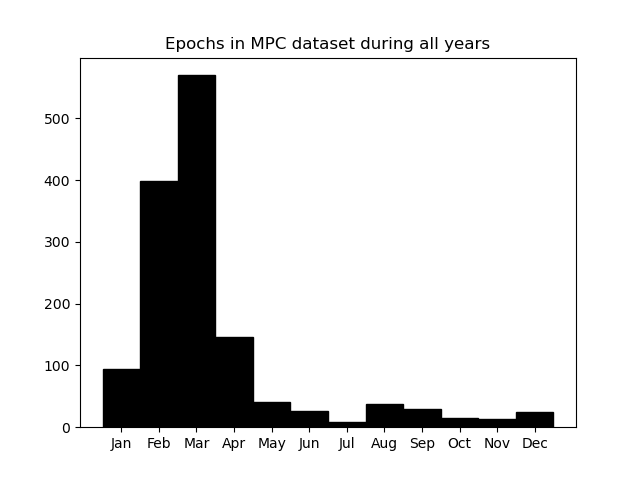
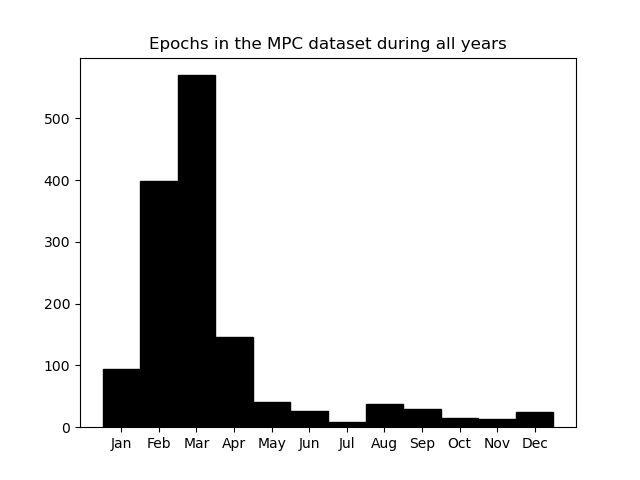
Added command line functionality and improved visualizer module.

Changed region(s): [[0.2188, 0.0625, 0.7812, 0.125]]

diff --git a/visualizer_functions.py b/visualizer_functions.py
@@ -1,0 +1,145 @@
+from mpc_wise_functions import *
+import matplotlib.pyplot as plt
+import numpy as np
+import pandas as pd
+import datetime
+import os
+
+
+def month_plot(dates, title, title_year):
+    """
+    Produces a histogram of recorded epochs during a given year
+    across different months.
+    Arguments: dates (list) -- a list of utc format strings 
+               title (str) -- the name of the dataset
+               title_year (str) -- the year being plotted for. If
+               a cumulative graph is made, provide the string:
+               "all years"
+    Returns: a histogram in the output folder
+    """
+
+    trimmed_dates = []
+    for date in dates:
+        year, month, day = date[:4], date[5:7], date[8:10]
+        date_string = year + month + day
+        trimmed_dates.append(date_string)
+
+    dtm = lambda x: int(x[4:6])
+    months = list(map(dtm, trimmed_dates))
+
+    fig, ax = plt.subplots()
+    bins = np.arange(1,14)
+    ax.hist(months, bins = bins, edgecolor="k", align='left', color='black')
+    ax.set_xticks(bins[:-1])
+    ax.set_title(title)
+    ax.set_xticklabels([datetime.date(1900,i,1).strftime('%b') for i in bins[:-1]])
+    if title == "Unique":
+        plt.title(f"New epochs found during {title_year}")
+    plt.title(f"Epochs in the {title} dataset during {title_year}")
+    if title_year == "all years":
+        title_year = "Cumulative"
+    plt.savefig(f"output/{title}_{title_year}")
+    plt.close()
+
+
+def visualizer(mpc_file, wise_file, clear_dir):
+    """
+    Generates a series of histograms of monthly epochs across the various 
+    years spanned by the MPC and WISE datasets of a given object.
+    Arguments: mpc_file (str) -- the name of the MPC txt file
+               wise_file (str) -- the name of the WISE tbl file
+               clear_dir (bool) -- whether or not to clear the output folder
+    Returns: a series of histograms in the output folder. Will also run
+            the full pring out of the comparer function in 
+            mpc_wise_functions.py
+    """
+
+    unique_epochs = comparer(mpc_file, wise_file, True)
+
+    mpc_data = list(MPC_parser(mpc_file).keys())
+    wise_data = list(WISE_parser(wise_file).keys())
+    unique_data = list(unique_epochs.keys())
+
+    if clear_dir:
+        files = os.listdir("output")
+        for f in files:
+            os.remove("output/" + f)
+
+    #Trimmed month list for MPC Data
+    trimmed_month_mpc = []
+    trimmed_year_mpc = []
+
+    for i in mpc_data:
+        trimmed_month_mpc.append(i[5:7])
+    for i in mpc_data:
+        trimmed_year_mpc.append(i[:4])
+
+    #Trimmed month list for WISE Data
+    trimmed_month_wise = []
+    trimmed_year_wise = []
+
+    for i in wise_data:
+        trimmed_month_wise.append(i[5:7])
+    for i in wise_data:
+        trimmed_year_wise.append(i[:4])
+
+    #Counting observations in each month for MPC
+    mpc_count = dict(pd.Series(trimmed_month_mpc).value_counts())
+    months = {"01": "Jan", "02": "Feb", "03": "Mar", "04": "Apr", "05": "May", 
+            "06": "Jun", "07": "Jul", "08": "Aug", "09": "Sep", "10": "Oct", 
+            "11": "Nov", "12": "Dec"}
+    print("MPC epoch counts by month:")
+    for month in months:
+        if month not in mpc_count.keys():
+            mpc_count[month] = 0
+        print(months[month] + ":", mpc_count[month])
+    print("Total MPC epochs:", sum(mpc_count.values()))
+
+    #Counting observations in each month for WISE
+    wise_count = dict(pd.Series(trimmed_month_wise).value_counts())
+    print("WISE epoch counts by month:")
+    for month in months:
+        if month not in wise_count.keys():
+            wise_count[month] = 0
+        print(months[month] + ":", wise_count[month])
+    print("Total WISE epochs:", sum(wise_count.values()))
+
+    # MPC month plots by year per month
+    mpc_year_data = {}
+    for datum in mpc_data:
+        year, month, day = datum[:4], datum[5:7], datum[8:10]
+        if year not in mpc_year_data.keys():
+            mpc_year_data[year] = [datum]
+        else:
+            mpc_year_data[year].append(datum)
+
+    for year in mpc_year_data:
+        month_plot(mpc_year_data[year], "MPC", year)
+
+    # WISE month plots by year per month
+    wise_year_data = {}
+    for datum in wise_data:
+        year, month, day = datum[:4], datum[5:7], datum[8:10]
+        if year not in wise_year_data.keys():
+            wise_year_data[year] = [datum]
+        else:
+            wise_year_data[year].append(datum)
+
+    for year in wise_year_data:
+        month_plot(wise_year_data[year], "WISE", year)
+
+    # New epoch month plots by year per month
+    unique_year_data = {}
+    for datum in unique_data:
+        year, month, day = datum[:4], datum[5:7], datum[8:10]
+        if year not in unique_year_data.keys():
+            unique_year_data[year] = [datum]
+        else:
+            unique_year_data[year].append(datum)
+
+    for year in unique_year_data:
+        month_plot(unique_year_data[year], "Unique", year)
+
+    month_plot(mpc_data, "MPC", "all years")
+    month_plot(wise_data, "WISE", "all years")
+    month_plot(unique_data, "Unique", "all years")

diff --git a/mpc_wise_functions.py b/mpc_wise_functions.py
@@ -109,24 +109,20 @@ def n_round(x, n=5):
     return n * round(x/n)
 
 
-def data_comparer(mpc_file, wise_file):
+def data_comparer(mpc_file, wise_file, stats):
     """
-    Compares the observational instances between the MPC and WISE dataset files for a given object. ds
+    Compares the observational instances between the MPC and WISE dataset files for a given object. 
     Arguments: mpc_file (str) -- txt file which contains MPC data
                wise_file (str) -- file which contains WISE
     """
     
     mpc_observation_data = MPC_parser(mpc_file)
     wise_image_data = WISE_parser(wise_file)
-    print("-------------Database Statistics---------------- \n")
-    print("Epochs observed in the MPC database:", len(mpc_observation_data))
-    print("Epochs observed in the WISE database:", len(wise_image_data))
     
     # Year Counting
     wise_years = []
     mpc_years = []
     for datum in wise_image_data:
-        print(datum)
         year = int(datum[:4])
         if year not in wise_years:
             wise_years.append(year)
@@ -138,11 +134,10 @@ def data_comparer(mpc_file, wise_file):
     wise_years_str = ""
     for year in wise_years:
         wise_years_str += str(year) + ", "
-    print("Years in which WISE data was collected: " + wise_years_str[:-2])
+    
     mpc_years_str = ""
     for year in mpc_years:
         mpc_years_str += str(year) + ", "
-    print("Years in which MPC data was collected: " + mpc_years_str[:-2])
     
     # Acquire utc dates
     wise_utc = list(wise_image_data.keys())
@@ -170,5 +165,16 @@ def data_comparer(mpc_file, wise_file):
         if not recorded:
             new_epochs[epoch] = wise_image_data[epoch]
 
-    print(f"New epochs detected in WISE catalog: {len(new_epochs)}")
+    if stats:
+        print("Epochs observed in the MPC database:", len(mpc_observation_data))
+        print("Epochs observed in the WISE database:", len(wise_image_data))
+        print("Years in which MPC data was collected: " + mpc_years_str[:-2])
+        print("Years in which WISE data was collected: " + wise_years_str[:-2])
+        print(f"New epochs detected in WISE catalog: {len(new_epochs)}")
+        print('-' * 42)
+        print(' ' * 7 + 'Time (utc)' + ' ' * 7 + '|' + ' ' * 4 + 'Source ID' + ' ' * 3)
+        print('-' * 42)
+        for epoch in new_epochs:
+            print(f"{epoch}", '|', f"{new_epochs[epoch][0]}" )
+
     return new_epochs

diff --git a/mpc_wise_comparer.py b/mpc_wise_comparer.py
@@ -1,5 +1,6 @@
+from visualizer_functions import visualizer
 from mpc_wise_functions import *
 import sys
 
-
-new_epochs = data_comparer(sys.argv[1], sys.argv[2])
+new_epochs = data_comparer(sys.argv[1], sys.argv[2], True)
+visualizer(sys.argv[1], sys.argv[2], sys.argv[3])
